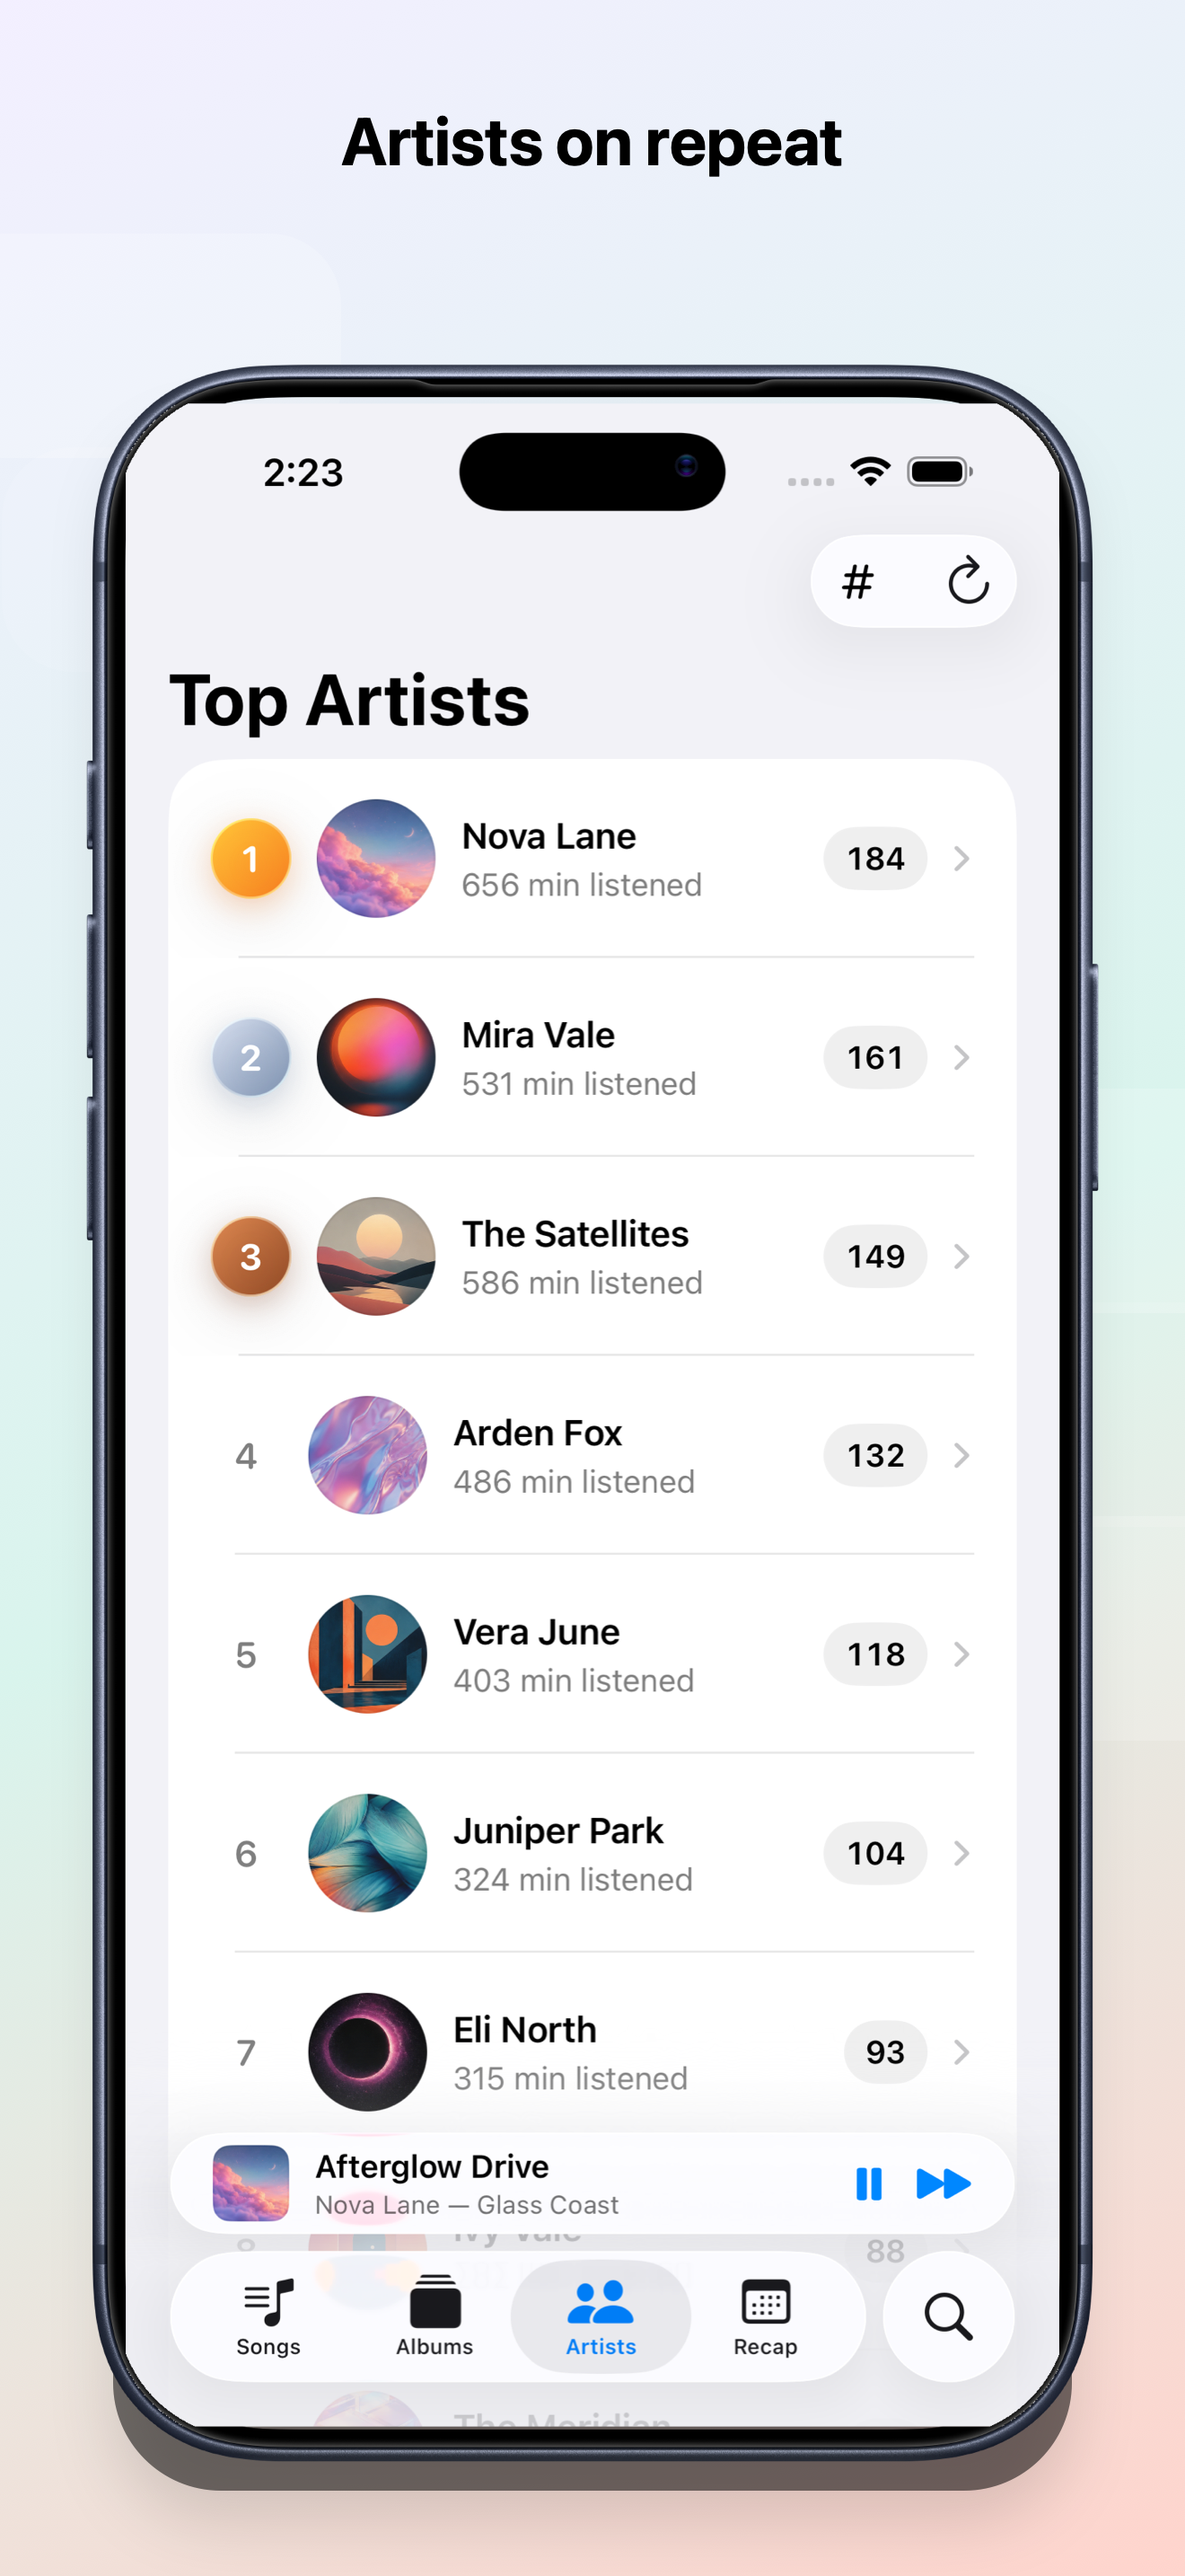
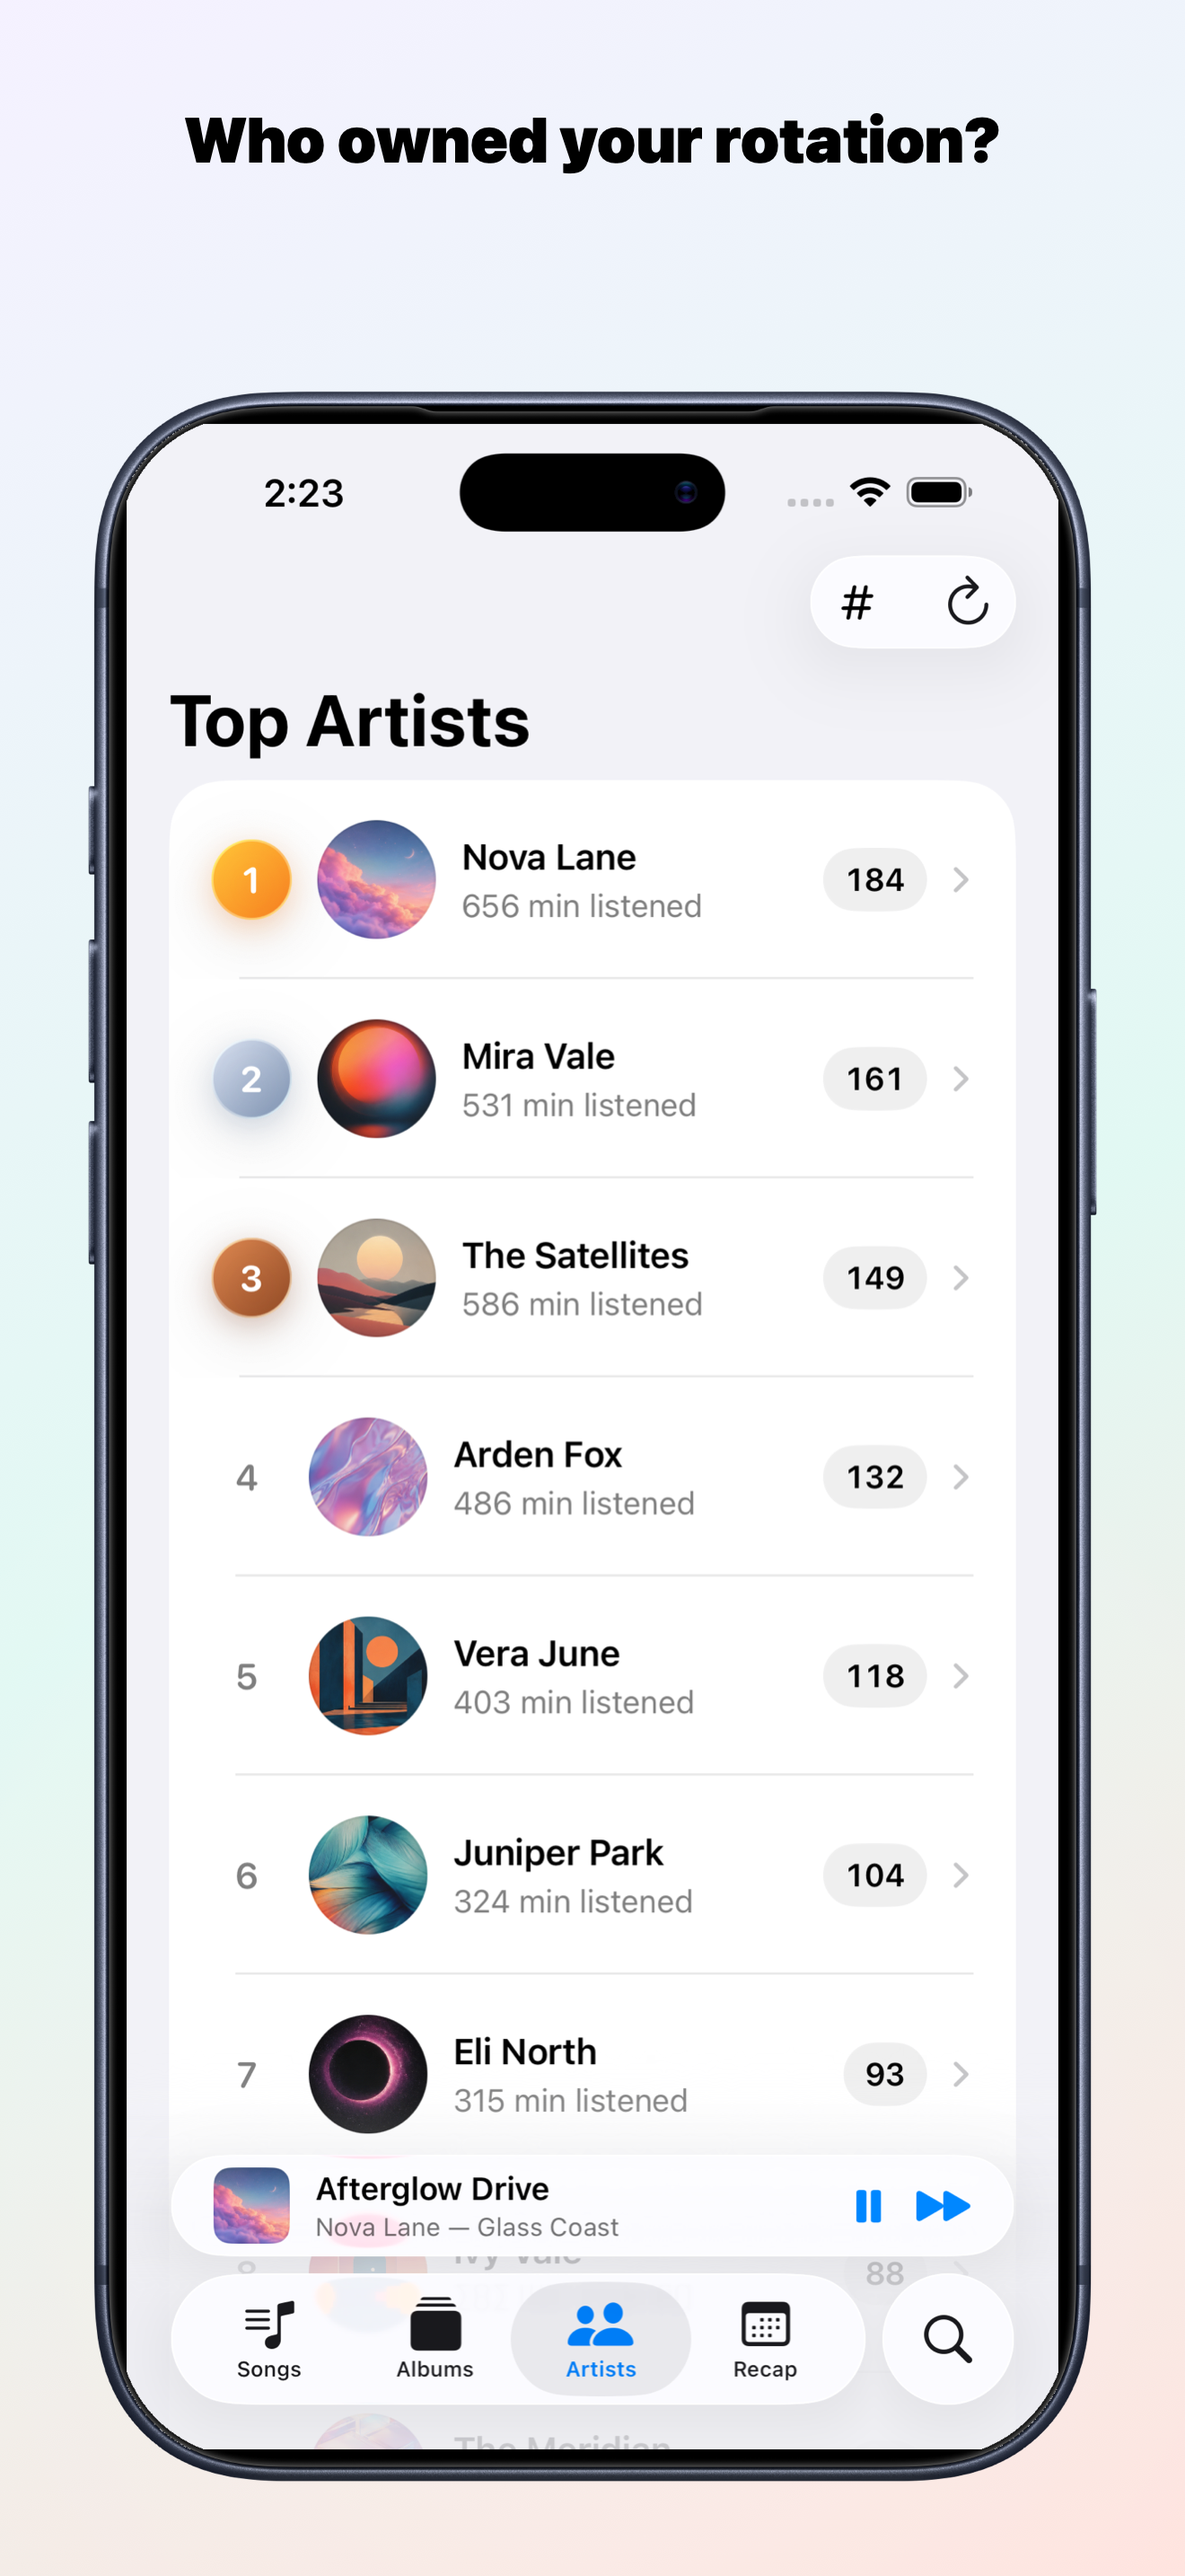
Refine App Store screenshot compositions

diff --git a/tools/create_app_store_framed_screenshots.swift b/tools/create_app_store_framed_screenshots.swift
@@ -21,49 +21,49 @@ let shots: [Shot] = [
     Shot(
         input: "01-top-songs.png",
         output: "01-your-music-ranked.png",
-        title: "Your music, ranked",
+        title: "See what you actually replay",
         colors: [
-            NSColor(calibratedRed: 0.97, green: 0.92, blue: 0.96, alpha: 1),
-            NSColor(calibratedRed: 0.82, green: 0.91, blue: 1.00, alpha: 1),
-            NSColor(calibratedRed: 1.00, green: 0.83, blue: 0.58, alpha: 1)
+            NSColor(calibratedRed: 0.98, green: 0.94, blue: 0.97, alpha: 1),
+            NSColor(calibratedRed: 0.88, green: 0.94, blue: 1.00, alpha: 1),
+            NSColor(calibratedRed: 1.00, green: 0.90, blue: 0.70, alpha: 1)
         ]
     ),
     Shot(
         input: "02-top-albums.png",
         output: "02-albums-that-stick.png",
-        title: "Albums you play most",
+        title: "The albums you live in",
         colors: [
-            NSColor(calibratedRed: 0.92, green: 0.96, blue: 0.99, alpha: 1),
-            NSColor(calibratedRed: 1.00, green: 0.89, blue: 0.73, alpha: 1),
-            NSColor(calibratedRed: 0.78, green: 0.86, blue: 0.78, alpha: 1)
+            NSColor(calibratedRed: 0.94, green: 0.98, blue: 1.00, alpha: 1),
+            NSColor(calibratedRed: 1.00, green: 0.91, blue: 0.78, alpha: 1),
+            NSColor(calibratedRed: 0.84, green: 0.90, blue: 0.82, alpha: 1)
         ]
     ),
     Shot(
         input: "03-top-artists.png",
         output: "03-top-artists.png",
-        title: "Artists on repeat",
+        title: "Who owned your rotation?",
         colors: [
-            NSColor(calibratedRed: 0.94, green: 0.92, blue: 1.00, alpha: 1),
-            NSColor(calibratedRed: 0.82, green: 0.95, blue: 0.91, alpha: 1),
-            NSColor(calibratedRed: 1.00, green: 0.79, blue: 0.76, alpha: 1)
+            NSColor(calibratedRed: 0.95, green: 0.93, blue: 1.00, alpha: 1),
+            NSColor(calibratedRed: 0.86, green: 0.97, blue: 0.94, alpha: 1),
+            NSColor(calibratedRed: 1.00, green: 0.86, blue: 0.84, alpha: 1)
         ]
     ),
     Shot(
         input: "04-monthly-recap.png",
         output: "04-monthly-recaps.png",
-        title: "Monthly recaps, made visual",
+        title: "Your month in music",
         colors: [
-            NSColor(calibratedRed: 0.80, green: 0.74, blue: 0.88, alpha: 1),
-            NSColor(calibratedRed: 0.99, green: 0.82, blue: 0.88, alpha: 1),
-            NSColor(calibratedRed: 0.78, green: 0.89, blue: 1.00, alpha: 1)
+            NSColor(calibratedRed: 0.84, green: 0.78, blue: 0.92, alpha: 1),
+            NSColor(calibratedRed: 1.00, green: 0.86, blue: 0.91, alpha: 1),
+            NSColor(calibratedRed: 0.82, green: 0.91, blue: 1.00, alpha: 1)
         ]
     )
 ]
 
 let canvasSize = CGSize(width: 1320, height: 2868)
-let deviceFrame = CGRect(x: 80, y: 390, width: 1160, height: 2367)
-let bezelScreenRect = CGRect(x: 76, y: 75, width: 1318, height: 2855)
-let titleRect = CGRect(x: 72, y: 118, width: 1176, height: 150)
+let deviceFrame = CGRect(x: 82, y: 420, width: 1156, height: 2359)
+let bezelScreenRect = CGRect(x: 75, y: 66, width: 1320, height: 2868)
+let titleRect = CGRect(x: 86, y: 118, width: 1148, height: 132)
 
 func flipped(_ rect: CGRect) -> CGRect {
     CGRect(x: rect.origin.x, y: canvasSize.height - rect.origin.y - rect.height, width: rect.width, height: rect.height)
@@ -111,30 +111,22 @@ func drawBackground(colors: [NSColor], context: CGContext) {
         options: []
     )
 
-    context.saveGState()
-    context.setBlendMode(.softLight)
-    for index in 0..<7 {
-        let width = CGFloat(560 + index * 88)
-        let x = CGFloat(-180 + index * 182)
-        let y = CGFloat(260 + index * 238)
-        let rect = CGRect(x: x, y: y, width: width, height: 250)
-        let path = CGPath(roundedRect: flipped(rect), cornerWidth: 80, cornerHeight: 80, transform: nil)
-        context.addPath(path)
-        context.setFillColor(NSColor.white.withAlphaComponent(index.isMultiple(of: 2) ? 0.20 : 0.11).cgColor)
-        context.fillPath()
-    }
-    context.restoreGState()
-}
-
-func drawDeviceShadow(context: CGContext) {
-    context.saveGState()
-    let shadowRect = deviceFrame.offsetBy(dx: 0, dy: 38).insetBy(dx: 46, dy: 22)
-    context.setShadow(offset: CGSize(width: 0, height: -34), blur: 76, color: NSColor.black.withAlphaComponent(0.26).cgColor)
-    let path = CGPath(roundedRect: flipped(shadowRect), cornerWidth: 120, cornerHeight: 120, transform: nil)
-    context.addPath(path)
-    context.setFillColor(NSColor.black.withAlphaComponent(0.52).cgColor)
-    context.fillPath()
-    context.restoreGState()
+    let overlay = CGGradient(
+        colorsSpace: colorSpace,
+        colors: [
+            NSColor.white.withAlphaComponent(0.26).cgColor,
+            NSColor.white.withAlphaComponent(0.00).cgColor
+        ] as CFArray,
+        locations: [0, 1]
+    )!
+    context.drawRadialGradient(
+        overlay,
+        startCenter: CGPoint(x: canvasSize.width * 0.50, y: canvasSize.height * 0.18),
+        startRadius: 0,
+        endCenter: CGPoint(x: canvasSize.width * 0.50, y: canvasSize.height * 0.18),
+        endRadius: 950,
+        options: [.drawsAfterEndLocation]
+    )
 }
 
 func screenRect(in destination: CGRect, bezelSize: CGSize) -> CGRect {
@@ -215,11 +207,11 @@ func render(_ shot: Shot) throws {
     drawText(
         shot.title,
         rect: titleRect,
-        font: NSFont.systemFont(ofSize: 74, weight: .bold),
+        font: NSFont.systemFont(ofSize: 70, weight: .black),
         color: .black,
         context: context,
         alignment: .center,
-        lineHeight: 82
+        lineHeight: 78
     )
 
     guard let bezelImage = NSImage(contentsOf: bezelURL),
@@ -234,9 +226,8 @@ func render(_ shot: Shot) throws {
         throw NSError(domain: "renderer", code: 2, userInfo: [NSLocalizedDescriptionKey: "Missing input \(shot.input)"])
     }
 
-    drawDeviceShadow(context: context)
     context.saveGState()
-    context.addPath(CGPath(roundedRect: flipped(screenDestination), cornerWidth: 74, cornerHeight: 74, transform: nil))
+    context.addPath(CGPath(roundedRect: flipped(screenDestination), cornerWidth: 76, cornerHeight: 76, transform: nil))
     context.clip()
     context.draw(cgImage, in: flipped(screenDestination))
     context.restoreGState()
